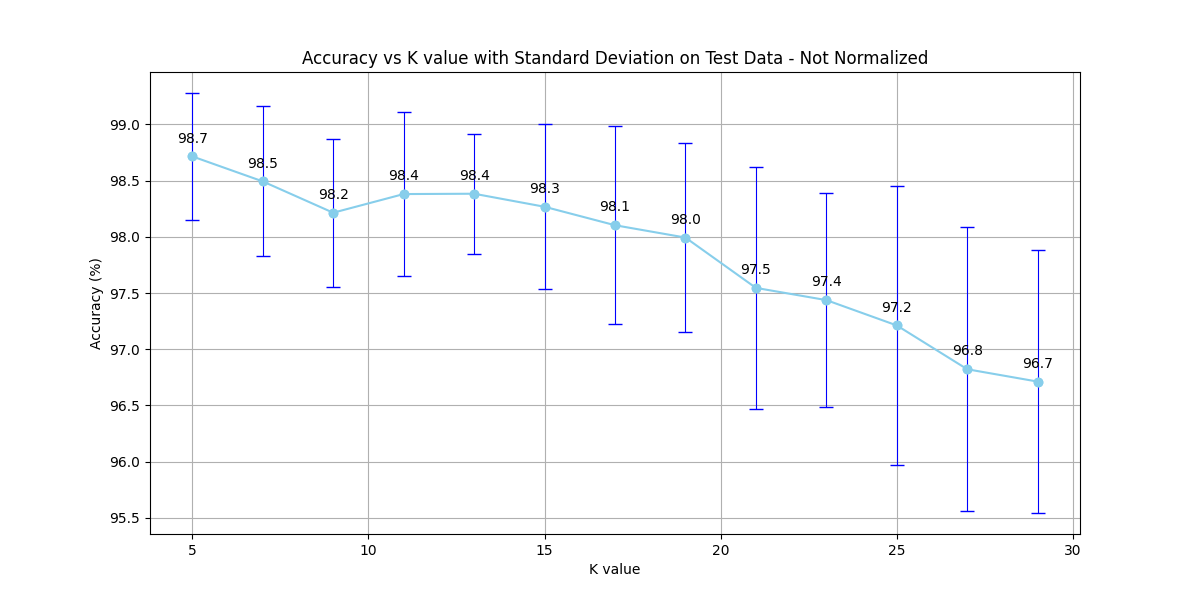
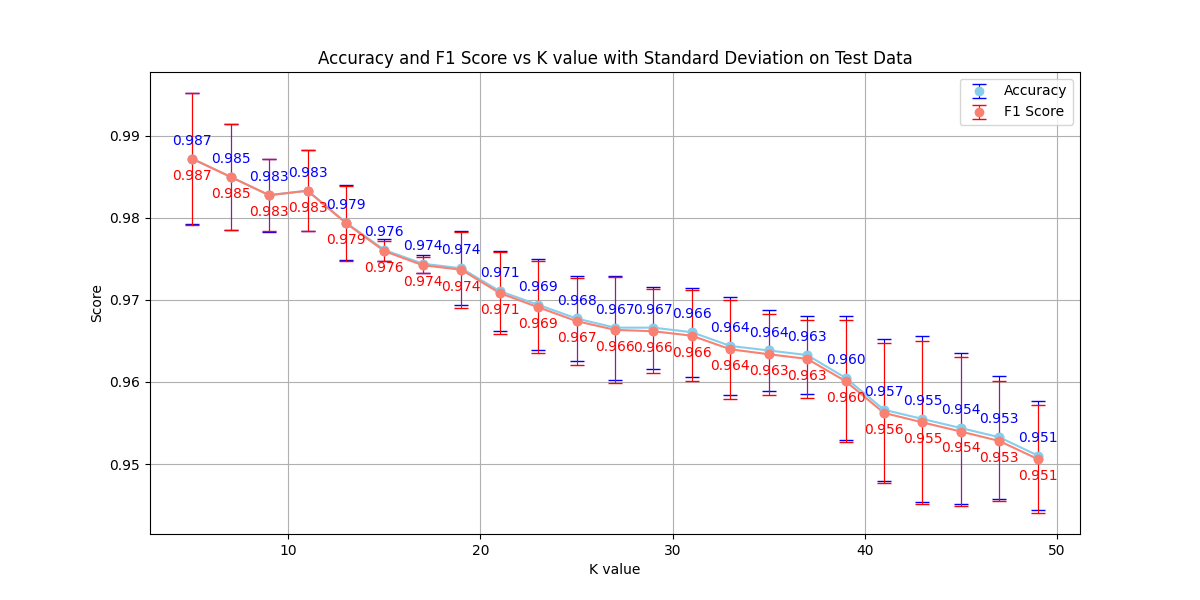
Update .gitignore to include all test files in ANN directory; refactor hybrid model to remove bias term from training features; modify KNN main script to use rice dataset and comment out Kuzushiji dataset loading; enhance RandomForest.py with hyperparameter tuning results saving and label encoding.

diff --git a/RandomForest/RandomForest.py b/RandomForest/RandomForest.py
@@ -5,7 +5,7 @@ import matplotlib.pyplot as plt
 from sklearn.preprocessing import LabelEncoder
 from sklearn import datasets
 
-LABEL_NAME = 'label'
+LABEL_NAME = 'Diagnosis' 
 
 def get_bootstrap_sample(data):
     return data.sample(n=len(data), replace=True)
@@ -247,12 +247,15 @@ def plot_all_metrics_color(results, dataset_name):
 
 
 def hyperparameter_tuning(data, attributes):
+    import pandas as pd
     min_samples = [2, 5, 10]
     max_depths = [5, 10, 15]
     min_info_gains = [0.01, 0.05, 0.1]
-    n_tree = [5,10,20,30,40]
+    n_tree = [20]
     best_params = None
     best_f1 = 0
+    results = []  # To store results for DataFrame
+
     for samples in min_samples:
         for depth in max_depths:
             for gain in min_info_gains:
@@ -268,10 +271,22 @@ def hyperparameter_tuning(data, attributes):
 
                     avg_f1 = np.mean(f1s)
                     avg_acc = np.mean(accs)
-                    print(f"Samples: {samples}, Depth: {depth}, Gain: {gain}, F1: {avg_f1:.4f}")
+                    print(f"Samples: {samples}, Depth: {depth}, Gain: {gain}, F1: {avg_f1:.4f}, Acc: {avg_acc:.4f}")
+                    results.append({
+                        "min_samples": samples,
+                        "max_depth": depth,
+                        "min_info_gain": gain,
+                        "n_tree": ntree,
+                        "avg_f1": avg_f1,
+                        "avg_acc": avg_acc
+                    })
                     if avg_f1 > best_f1:
                         best_f1 = avg_f1
                         best_params = (samples, depth, gain)
+    # Save results to DataFrame and CSV
+    results_df = pd.DataFrame(results)
+    results_df.to_csv("rf_hyperparam_results.csv", index=False)
+    print("Saved hyperparameter tuning results to rf_hyperparam_results.csv")
     return best_params
 
 def run_random_forest(filename, nTrees=[5, 10, 20, 30, 40, 50], k=5, min_samples_split= 2, max_depth= 10, min_info_gain= 0.01):
@@ -327,19 +342,37 @@ def run_random_forest(filename, nTrees=[5, 10, 20, 30, 40, 50], k=5, min_samples
     plot_all_metrics_color(results, dataset_name=filename.split("/")[-1].replace(".csv", ""))
 
 if __name__ == "__main__":
-    # df = pd.read_csv("Random Forest2/raisin.csv")
-    # hyperparameter_tuning(df,attributes=df.columns[:-1])
     # run_random_forest("datasets/credit_approval.csv")  
     # run_random_forest("datasets/parkinsons.csv")  
-    digits = datasets.load_digits(return_X_y=True)
-    digits_dataset_X = digits[0]
-    digits_dataset_y = digits[1]
-    data = pd.DataFrame(digits_dataset_X, columns=[f'pixel_{i}' for i in range(digits_dataset_X.shape[1])])
-    data['label'] = digits_dataset_y
-    # Save to CSV
-    data.to_csv("digits.csv", index=False)
+    # digits = datasets.load_digits(return_X_y=True)
+    # digits_dataset_X = digits[0]
+    # digits_dataset_y = digits[1]
+    # data = pd.DataFrame(digits_dataset_X, columns=[f'pixel_{i}' for i in range(digits_dataset_X.shape[1])])
+    # data['label'] = digits_dataset_y
+    # # Save to CSV
+    # data.to_csv("digits.csv", index=False)
 
     # Now run your random forest on this file
-    run_random_forest("digits.csv")
+    # run_random_forest("digits.csv")
     # run_random_forest("datasets/rice.csv")
+
+
+    # Hyperparameter tuning
+    data = pd.read_csv("datasets/parkinsons.csv")
+    # --- Encode categorical features (excluding label) ---
+    categorical_features = data.select_dtypes(include=['object', 'category']).columns.drop(LABEL_NAME, errors='ignore')
+    if len(categorical_features) > 0:
+        data = pd.get_dummies(data, columns=categorical_features, drop_first=True)
+
+    # --- Encode label column if it's categorical ---
+    if data[LABEL_NAME].dtype == 'object' or data[LABEL_NAME].dtype.name == 'category':
+        le = LabelEncoder()
+        data[LABEL_NAME] = le.fit_transform(data[LABEL_NAME])
+
+    # Perform hyperparameter tuning
+    attributes = [col for col in data.columns if col != LABEL_NAME]
+    best_params = hyperparameter_tuning(data, attributes)
+    print(f"Best Parameters: {best_params}")
+    
+
 

diff --git a/KNN/main.py b/KNN/main.py
@@ -7,10 +7,9 @@ from KNN_Instance import KNNModel
 from calculate_accuracy import CalculateAccuracy
 import numpy as np
 import matplotlib.pyplot as plt
-from sklearn import datasets
-from sklearn.datasets import fetch_openml, load_iris, load_wine
+from sklearn.datasets import fetch_openml
 
-file_path = 'datasets/credit_approval.csv'
+file_path = 'datasets/rice.csv'
 df = pd.read_csv(file_path)
 
 #  Load the digits dataset
@@ -23,13 +22,13 @@ df = pd.read_csv(file_path)
 # df = data.copy()
 
 # Load the Kuzushiji-MNIST (Japanese letters) dataset
-kuzushiji = fetch_openml('Kuzushiji-MNIST', version=1, as_frame=False)
-X = kuzushiji.data/ 255.0
-y = kuzushiji.target.astype(int)  # Already numeric labels 0-9
-X, y = X[:1000], y[:1000]
-data = pd.DataFrame(X, columns=[f"feature{i}" for i in range(X.shape[1])])
-data["Diagnosis"] = y
-df = data.copy()
+# kuzushiji = fetch_openml('Kuzushiji-MNIST', version=1, as_frame=False)
+# X = kuzushiji.data/ 255.0
+# y = kuzushiji.target.astype(int)  # Already numeric labels 0-9
+# X, y = X[:1000], y[:1000]
+# data = pd.DataFrame(X, columns=[f"feature{i}" for i in range(X.shape[1])])
+# data["Diagnosis"] = y
+# df = data.copy()
 
 # Pre process
 num_columns = df.shape[1]

diff --git a/ANN/hybridModel.py b/ANN/hybridModel.py
@@ -108,8 +108,6 @@ if __name__ == "__main__":
     features_train = []
     for i in range(X_train.shape[0]):
         featureModel.forwardPropagation.forward(X_train[i].reshape(-1, 1))
-        # a[-2] is the activation of the last hidden layer (with bias as first row)
-        # Remove the bias term (first element)
         features_train.append(featureModel.forwardPropagation.layers[-2].a[1:].flatten())
     features_train = np.array(features_train)
 
